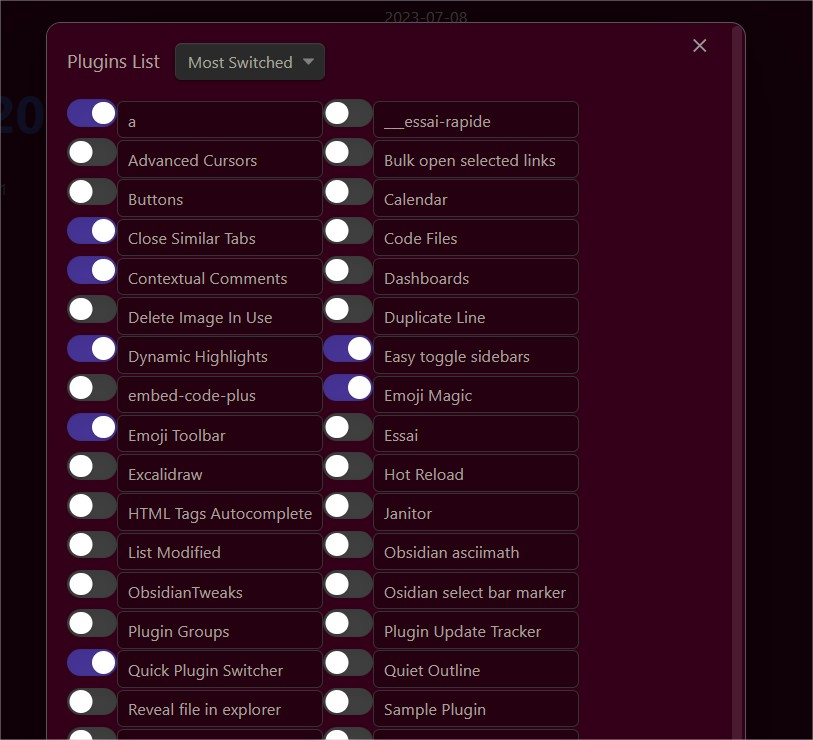
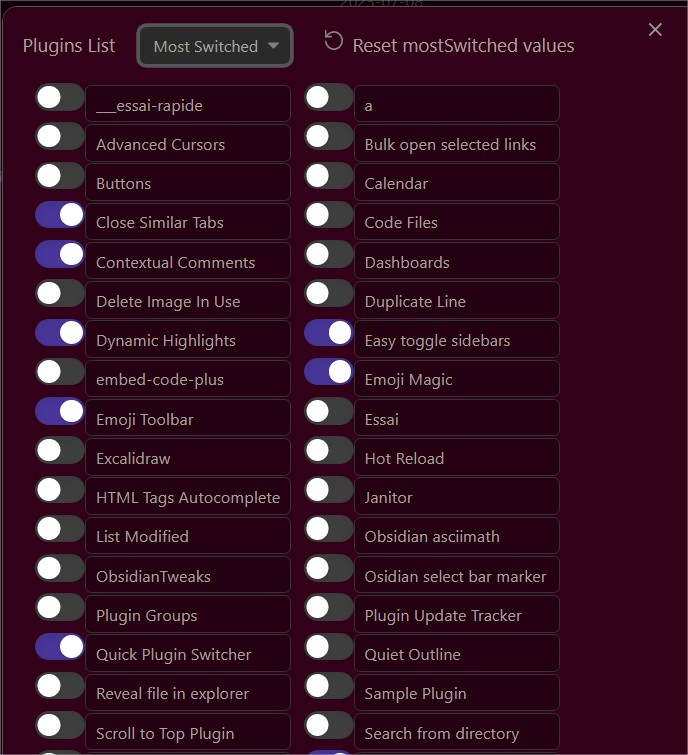
added reset & fixed css

diff --git a/main.ts b/main.ts
@@ -1,5 +1,5 @@
 // this.addSettingTab(new QPSSettingTab(this.app, this));
-import { App, DropdownComponent, Modal, Plugin, PluginSettingTab, Setting, TextComponent, ToggleComponent } from 'obsidian';
+import { App, DropdownComponent, ExtraButtonComponent, Modal, Plugin, PluginSettingTab, Setting, TextComponent, ToggleComponent } from 'obsidian';
 
 interface QuickPluginSwitcherSettings {
 	allPluginsList: PluginInfo[]
@@ -21,14 +21,14 @@ interface PluginInfo {
 
 export default class QuickPluginSwitcher extends Plugin {
 	settings: QuickPluginSwitcherSettings;
+	reset: boolean = false
 
 
 	async onload() {
 		await this.loadSettings();
 
 		const ribbonIconEl = this.addRibbonIcon('toggle-right', 'Quick Plugin Switcher', (evt: MouseEvent) => {
-			// this.settings.allPluginsList =[] for debugging
-			const actualPLugins = this.getPluginsInfo();
+			// this.settings.allPluginsList =[] //for debugging
 			new QuickPluginSwitcherModal(this.app, this).open();
 		});
 	}
@@ -38,6 +38,7 @@ export default class QuickPluginSwitcher extends Plugin {
 	}
 
 	getPluginsInfo = async () => {
+		console.debug("debug comment");
 		const allPluginsList = this.settings.allPluginsList;
 		const manifests = (this.app as any).plugins.manifests;
 		// if plugins have been deleted
@@ -101,22 +102,33 @@ class QuickPluginSwitcherModal extends Modal {
 			.setValue(this.plugin.settings.filters)
 			.onChange(async (value: "all" | "enabled" | "disabled" | "mostSwitched") => {
 				this.plugin.settings.filters = value;
-				this.plugin.saveSettings();
 				this.onOpen()
+				await this.plugin.saveSettings();
 			})
+		
+		new ExtraButtonComponent(div0).setIcon("reset").setTooltip("Reset mostSwitched to 0").onClick(async () => { 
+			this.plugin.settings.allPluginsList = []
+			this.plugin.getPluginsInfo()
+			this.plugin.reset = true
+			this.onOpen()
+			await this.plugin.saveSettings();
+		})
+
+		div0.createEl("span", { text: "Reset mostSwitched values", cls: ["reset-desc"] })
 	}
 
 	addItems(contentEl: HTMLElement) {
 		let counter = 0 //counter to add 2 items per line
-		let div = contentEl.createEl("div")
+		let div = contentEl.createEl("div",{cls: ["qps-item-pair"] })
 		// div.empty()
 		let allPluginsList = this.plugin.settings.allPluginsList
 
 		// mostSwitched at start of the list
-		if (this.plugin.settings.filters === "mostSwitched") {
+		if (this.plugin.settings.filters === "mostSwitched" && !this.plugin.reset) {
 			allPluginsList.sort((a, b) => b.switched - a.switched)
 		} else {
 			allPluginsList.sort((a, b) => a.name.localeCompare(b.name))
+			if (this.plugin.reset) this.plugin.reset = false
 		}
 
 		for (const plugin of allPluginsList) {
@@ -125,7 +137,7 @@ class QuickPluginSwitcherModal extends Modal {
 
 			// new div after two added items
 			if (counter > 1) {
-				div = contentEl.createEl("div");
+				div = contentEl.createEl("div", { cls: ["qps-item-pair"] });
 				counter = 0
 			}
 
@@ -135,11 +147,11 @@ class QuickPluginSwitcherModal extends Modal {
 					(this.app as any).plugins.disablePlugin(plugin.id)
 				plugin.switched++
 				this.onOpen()
-				this.plugin.saveSettings();
+				await this.plugin.saveSettings();
 			})
 
-			new TextComponent(div).setValue(plugin.name)
-
+			new TextComponent(div).setValue(plugin.name).setDisabled(true);
+			
 			counter++
 		}
 	}

diff --git a/styles.css b/styles.css
@@ -1,4 +1,27 @@
 
 .qps-modal-title .dropdown {
-  margin-left: 12px;
+  margin-left: 20px;
+  display: inline;
 }
+
+.qps-modal-title .setting-editor-extra-setting-button {
+  margin-left: 20px;
+  width: fit-content;
+  display: inline;
+}
+
+.qps-modal-title .setting-editor-extra-setting-button {
+  margin-left: 20px;
+  width: fit-content;
+  display: inline;
+}
+
+/* checkbox-container */
+.qps-item-pair div {
+  margin-left: 10px;
+  display: inline-block;
+}
+
+/* .qps-item-pair input{
+  display: inline-block;
+} */
